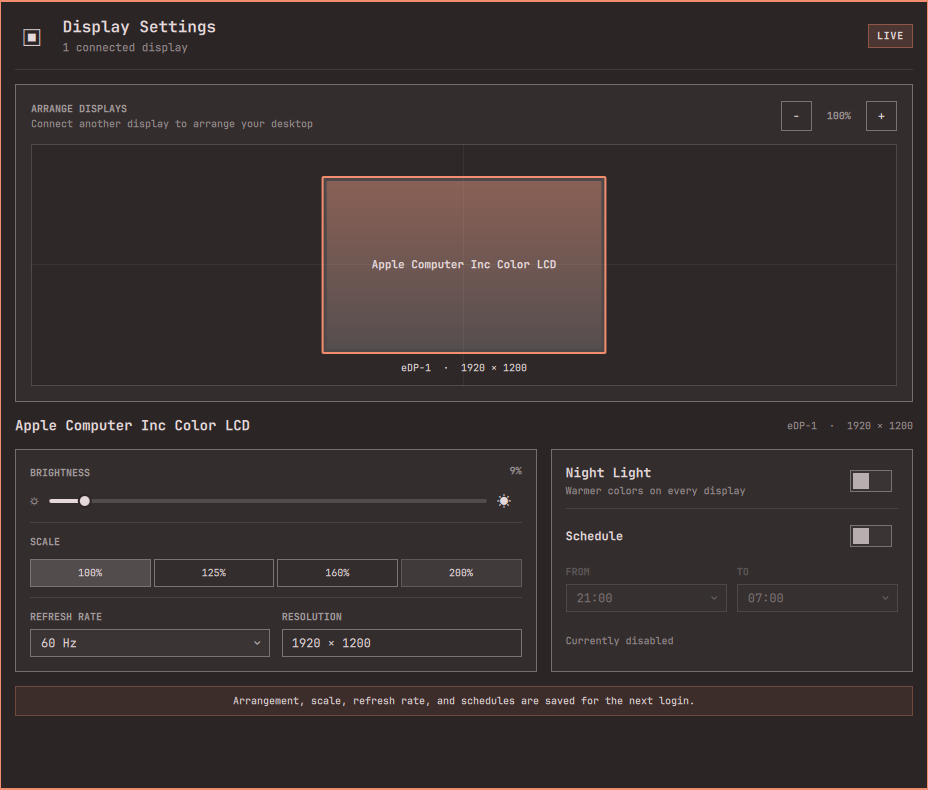
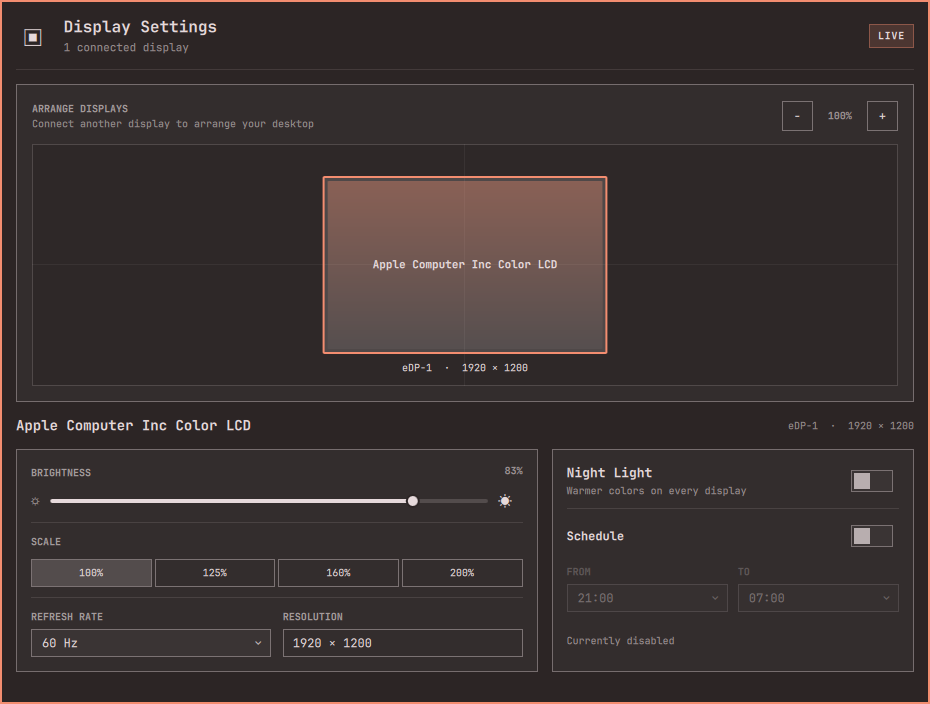
fix: anchor and resize display panel

diff --git a/Panel.qml b/Panel.qml
@@ -613,9 +613,9 @@ Panel {
     owner: root
     bar: root.bar
     open: root.opened
-    centerOnBar: true
+    centerOnBar: false
     contentWidth: panel.fittedContentWidth(Style.space(930))
-    contentHeight: panel.cappedContentHeight(Style.space(790))
+    contentHeight: panel.fittedContentHeight(contentColumn.implicitHeight, Style.space(790))
 
     Controls.ScrollView {
       id: scrollArea
@@ -1143,17 +1143,18 @@ Panel {
 
         BorderSurface {
           width: parent.width
+          visible: root.statusMessage !== "" && root.statusIsError
           implicitHeight: footerText.implicitHeight + Style.space(16)
           radius: Style.cornerRadius
-          color: root.statusMessage !== "" ? root.alpha(root.statusIsError ? Color.urgent : Color.accent, 0.12) : root.alpha(Color.accent, 0.08)
-          borderSpec: Border.flat(root.alpha(root.statusMessage !== "" && root.statusIsError ? Color.urgent : Color.accent, 0.34), 1)
+          color: root.alpha(Color.urgent, 0.12)
+          borderSpec: Border.flat(root.alpha(Color.urgent, 0.34), 1)
           Text {
             id: footerText
             anchors.left: parent.left
             anchors.right: parent.right
             anchors.verticalCenter: parent.verticalCenter
             anchors.margins: Style.space(12)
-            text: root.statusMessage !== "" ? root.statusMessage : "Arrangement, scale, refresh rate, and schedules are saved for the next login."
+            text: root.statusMessage
             color: root.foreground
             font.family: root.fontFamily
             font.pixelSize: Style.font.caption
